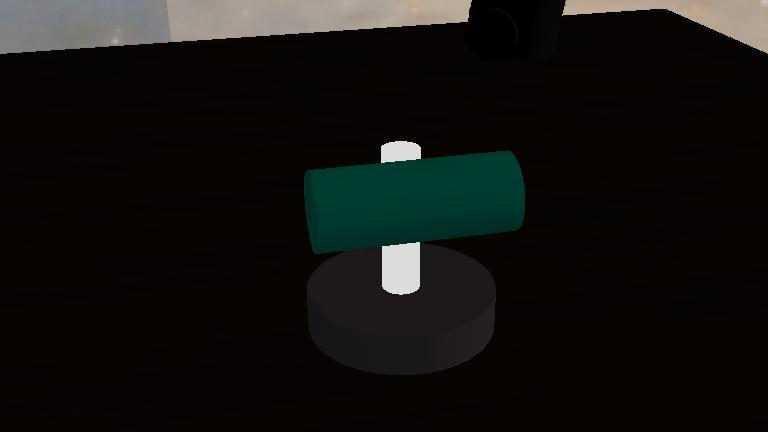
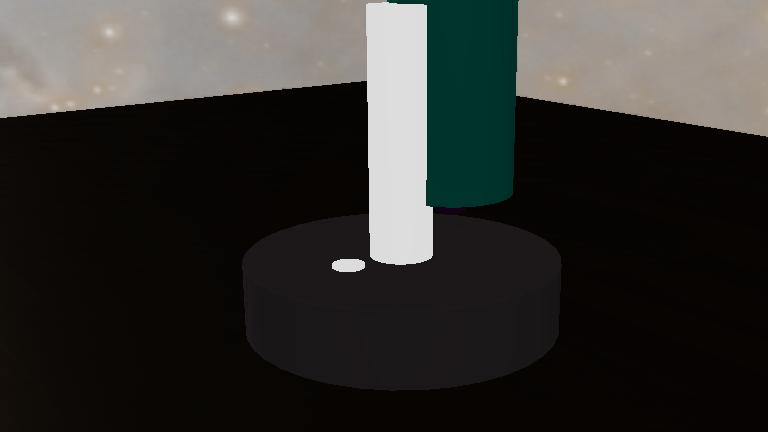
maj

diff --git a/controllers/stepper_motor/stepper_motor.py b/controllers/stepper_motor/stepper_motor.py
@@ -1,12 +1,13 @@
 import math
 from numpy import sign
 
-DEG_PAR_PAS = 0.01
+DEG_PAR_PAS = 0.2
 
-# Dictionnaire global pour suivre la position théorique (en radians)
+# Dictionnaire global pour suivre la position PHYSIQUE théorique (en radians)
+# Pour l'altitude : 0 = bas, 45 = horizon, 135 = zénith (si cible 90), 180 = haut
 current_ang = {
     "az": 0.0,
-    "alt": 0.0
+    "alt": 0.0 
 }
 
 def Step(x, motor, motor_key):
@@ -24,39 +25,48 @@ def StepPosition(motor, motor_key, ang_cible, robot, timestep):
     """Atteint l'angle cible par le chemin le plus court."""
     motor.setVelocity(1000)
     
-    # 1. Récupère la position actuelle estimée en degrés
+    # --- GESTION DE L'OFFSET D'ALTITUDE (Type Vespera) ---
+    if motor_key == "alt":
+        # Si la cible est l'horizon (0°), le moteur doit pointer à 90°
+        cible_physique = ang_cible + 90.0
+    else:
+        cible_physique = ang_cible
+        
+    # 1. Récupère la position physique actuelle estimée en degrés
     pos_actuelle_deg = -math.degrees(current_ang[motor_key])
     
     # --- OPTIMISATION DU CHEMIN LE PLUS COURT ---
-    # Différence brute entre la cible et la position
-    diff_brute = ang_cible - pos_actuelle_deg
+    # On calcule la différence avec la cible PHYSIQUE, pas l'angle astronomique
+    diff_brute = cible_physique - pos_actuelle_deg
     
     # On force l'erreur à se situer entre -180° et +180°
-    # Ex: Si diff_brute = 270°, (270+180)%360 - 180 = -90° (tourne à gauche)
     erreur_deg = (diff_brute + 180) % 360 - 180
     # --------------------------------------------
     
     # 2. Calcule le nombre exact de pas entiers à effectuer
-    nb_pas = int(round(erreur_deg / DEG_PAR_PAS,5))
+    nb_pas = int(round(erreur_deg / DEG_PAR_PAS, 5))
     
     if nb_pas == 0:
-        print(f"[{motor_key.upper()}] Cible déjà atteinte ou trop proche. (Position : {pos_actuelle_deg:.2f}°)\n")
+        print(f"[{motor_key.upper()}] Cible déjà atteinte. (Moteur : {pos_actuelle_deg:.2f}°)\n")
         motor.setVelocity(0.0)
         return
 
-    print(f"[{motor_key.upper()}] Chemin optimisé : {abs(nb_pas)} pas requis pour faire {erreur_deg:.2f}° (Pos: {pos_actuelle_deg:.2f}° -> Cible: {ang_cible}°)")
+    # Affichage clair pour comprendre la différence entre la demande et la réalité mécanique
+    if motor_key == "alt":
+        print(f"[ALT] Demande Astro: {ang_cible}° -> Cible Moteur: {cible_physique}°")
+        
+    print(f"[{motor_key.upper()}] Chemin optimisé : {abs(nb_pas)} pas requis pour faire {erreur_deg:.2f}°")
     
     direction = -sign(nb_pas)
     
     # 3. Effectue les pas un par un
     for _ in range(abs(nb_pas)):
         Step(direction, motor, motor_key)
-        print(f"[{motor_key.upper()}] | Nouvelle position : {-math.degrees(current_ang[motor_key]):.2f}°\n")
-        print(current_ang["az"])
+        
         # On n'attend qu'un seul "step" physique de Webots pour aller au plus vite
         start_time = robot.getTime()
         while robot.step(timestep) != -1:
             break
         
-    
+    print(f"[{motor_key.upper()}] Mouvement terminé ! Nouvelle position moteur : {-math.degrees(current_ang[motor_key]):.2f}°\n")
     motor.setVelocity(0.0)

diff --git a/controllers/GoTo3/GoTo3.py b/controllers/GoTo3/GoTo3.py
@@ -9,7 +9,7 @@ import sys
 sys.path.append(r'C:\Users\willi\Documents\Robot Telescope\AstroBot\controllers\stepper_motor') 
 from stepper_motor import StepPosition, Step, current_ang
 
-ASTRE_CIBLE = "moon" 
+ASTRE_CIBLE = "sun" 
 location = EarthLocation(lat=43.6109, lon=3.8772, height=35*u.m)
 
 # Sens des moteurs
@@ -33,6 +33,9 @@ moteur_alt = robot.getDevice("altitude motor")
 capteur_az = robot.getDevice("azimuth sensor")
 capteur_alt = robot.getDevice("altitude sensor")
 IMU = robot.getDevice("inertial unit")
+led = robot.getDevice("led")
+
+led.set(1)
 
 for m in [moteur_az, moteur_alt]:
     m.setPosition(float('inf'))
@@ -120,6 +123,7 @@ while robot.step(pas_de_temps) != -1:
        
         #StepPosition(motor_az, cible_az)
         StepPosition(moteur_az, "az", cible_az, robot, timestep)
+        StepPosition(moteur_alt, "alt", cible_alt, robot, timestep)
         #StepPosition(capteur_alt,moteur_alt,cible_alt)
       
         # ==========================================